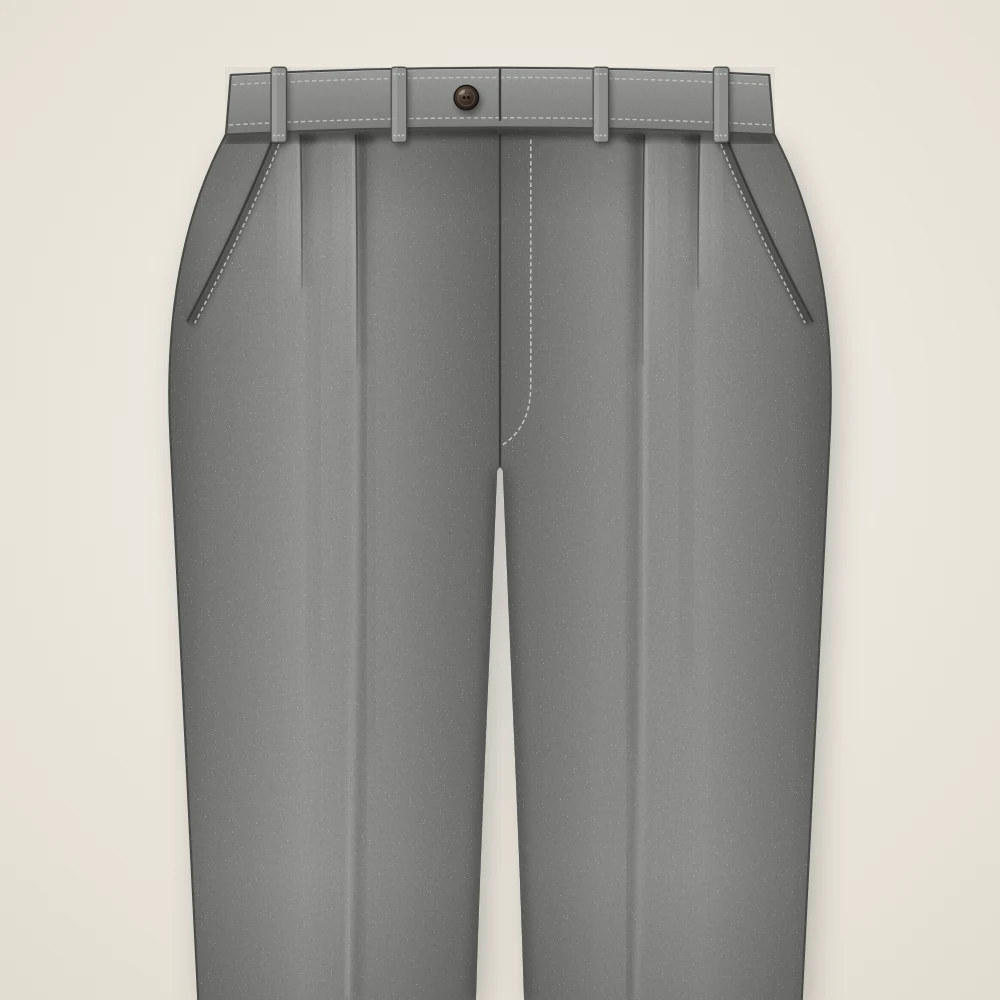
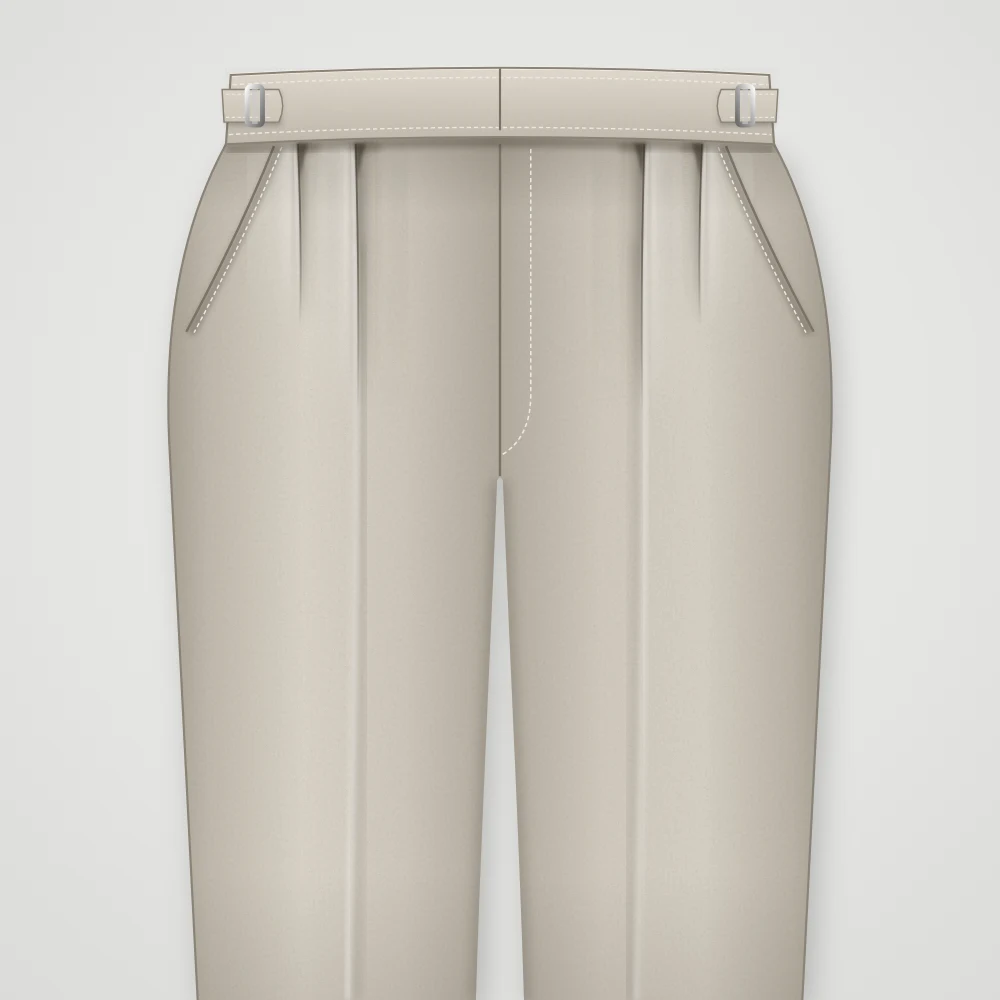
feat(w183): viewer dock — Design Only, Design Details and Pleats in one glass pill; classic light-stone pleat images
The three stacked viewer buttons become one slim pill at the bottom right,
the twin of the Showcase | Turn pill: monoline icons, hairline dividers,
the same warm pressed tint; icons only on phones (js/viewer-dock.js, w183 only).
Pleat renders: light stone flannel, clean waistband with side adjusters (no
loops or button), pleats drawn as rolled folds with a mouth at the waistband.

diff --git a/js/viewer-dock.js b/js/viewer-dock.js
@@ -1,0 +1,111 @@
+/* viewer-dock.js — the viewer's own controls as one glass pill (first on w183).
+
+   Design Only, Design Details and any design-detail button (Pleats, Cuff …,
+   js/detail-studio.js) were three stacked boxes at the viewer's bottom right.
+   This gathers them into one slim pill there, the twin of the Showcase | Turn
+   pill at the top left (js/showcase.js): the same glass, type and warm pressed
+   tint, each control a monoline icon with its name, hairlines between. On a
+   phone the pill keeps only the icons.
+
+   The buttons themselves are moved, not copied, so the page's own handlers,
+   ids and .active classes keep working.
+
+   Use on a page, after the detail modules:
+       <script type="module" src="js/viewer-dock.js"></script> */
+
+const ICONS = {
+    only:    '<path d="M12 7.3a1.8 1.8 0 1 1 1.8-1.8c0 .9-.7 1.3-1.3 1.7l-.5.3v1.6"/><path d="M12 9.1 3.7 15.3c-.6.5-.3 1.5.5 1.5h15.6c.8 0 1.1-1 .5-1.5L12 9.1"/>',
+    details: '<circle cx="6.8" cy="16.4" r="2.3"/><path d="M8.5 14.7 13.6 9.6h6.6"/><path d="M15.6 12.9h4.6"/>',
+    pleat:   '<path d="M4.5 6.3h15"/><path d="M6.8 6.3 6 19.5M17.2 6.3l.8 13.2"/><path d="M10.3 6.3 12 13.8 13.7 6.3"/><path d="M12 13.8v5.7"/>',
+    cuff:    '<path d="M5 8.5h14v8.8H5z"/><path d="M5 11.2h14"/><circle cx="15.6" cy="14.2" r="1.1"/>',
+};
+const icon = (k) => `<svg viewBox="0 0 24 24" aria-hidden="true">${ICONS[k] || ICONS.details}</svg>`;
+
+const css = `
+.kd-dock {
+    position: absolute; right: 1.1rem; bottom: 1.1rem; z-index: 6;
+    display: inline-flex; align-items: center; padding: 3px;
+    border: 1px solid #d6d6d6; border-radius: 999px;
+    background: rgba(255,255,255,0.82);
+    -webkit-backdrop-filter: blur(6px); backdrop-filter: blur(6px);
+    box-shadow: inset 0 1px 0 rgba(255,255,255,.95), 0 1px 2px rgba(0,0,0,.05), 0 8px 22px -10px rgba(0,0,0,.22);
+}
+.kd-dock .kd-rule { width: 1px; height: 1.15rem; background: #dedede; flex: none; }
+html.kd-dock-on .viewer-panel #kd-dock .kd-dock-btn {
+    position: static !important; inset: auto !important; transform: none !important; width: auto !important;
+    margin: 0 !important; display: inline-flex !important; align-items: center; gap: .5rem;
+    padding: .42rem .95rem !important; border: 0 !important; border-radius: 999px !important;
+    background: transparent !important; color: #777 !important; box-shadow: none !important;
+    font-family: "Times New Roman", serif !important; font-size: 1rem !important; letter-spacing: 2px !important;
+    text-transform: uppercase; white-space: nowrap; line-height: 1.2; cursor: pointer;
+    transition: background .25s, color .25s;
+}
+html.kd-dock-on .viewer-panel #kd-dock .kd-dock-btn::after { content: none !important; }
+html.kd-dock-on .viewer-panel #kd-dock .kd-dock-btn:hover { color: #1a1a1a !important; }
+html.kd-dock-on .viewer-panel #kd-dock .kd-dock-btn.active {
+    background: rgba(100,70,0,0.08) !important; color: rgba(100,70,0,0.85) !important;
+}
+.kd-dock .kd-dock-btn:focus-visible { outline: 1px solid rgba(100,70,0,0.6) !important; outline-offset: 1px; }
+.kd-dock .kd-dock-btn svg {
+    width: 1.15em; height: 1.15em; flex: none; fill: none; stroke: currentColor;
+    stroke-width: 1.3; stroke-linecap: round; stroke-linejoin: round;
+    transition: transform .25s ease;
+}
+.kd-dock .kd-dock-btn:hover svg { transform: translateY(-1px); }
+.kd-dock .kd-dock-label em { font-style: italic; text-transform: none; letter-spacing: 1px; }
+
+@media (max-width: 768px) {
+    .kd-dock { right: .8rem; bottom: .8rem; }
+    html.kd-dock-on .viewer-panel #kd-dock .kd-dock-btn { padding: .55rem .62rem !important; }
+    .kd-dock .kd-dock-label { display: none; }
+    .kd-dock .kd-dock-btn svg { width: 1.3rem; height: 1.3rem; }
+}
+@media (prefers-reduced-motion: reduce) { .kd-dock .kd-dock-btn svg { transition: none; } }
+`;
+
+function build() {
+    const panel = document.querySelector('.viewer-panel');
+    const only = document.getElementById('design-only-btn');
+    const details = document.getElementById('design-details-btn');
+    if (!panel || !only || !details) return;
+
+    const style = document.createElement('style');
+    style.textContent = css;
+    document.head.appendChild(style);
+    document.documentElement.classList.add('kd-dock-on');
+
+    const dock = document.createElement('div');
+    dock.className = 'kd-dock';
+    dock.id = 'kd-dock';
+    dock.setAttribute('role', 'toolbar');
+    dock.setAttribute('aria-label', 'Design view');
+
+    const adopt = (btn, key, label) => {
+        btn.classList.add('kd-dock-btn');
+        btn.style.width = '';
+        const text = label ?? btn.innerHTML;
+        btn.innerHTML = `${icon(key)}<span class="kd-dock-label">${text}</span>`;
+        btn.title = btn.querySelector('.kd-dock-label').textContent;
+        btn.setAttribute('aria-label', btn.title);
+        return btn;
+    };
+    const rule = () => Object.assign(document.createElement('span'), { className: 'kd-rule' });
+
+    dock.append(adopt(only, 'only', 'Design Only'), rule(), adopt(details, 'details', 'Design Details'));
+    panel.querySelectorAll('.design-detail-btn').forEach((b) => {
+        const key = b.id.replace(/^design-|-btn$/g, '');
+        dock.append(rule(), adopt(b, key));
+        // the detail module rewrites its label on every choice: keep the title in step
+        new MutationObserver(() => {
+            const t = b.querySelector('.kd-dock-label')?.textContent;
+            if (t) { b.title = t; b.setAttribute('aria-label', t); }
+        }).observe(b, { subtree: true, childList: true, characterData: true });
+    });
+    panel.appendChild(dock);
+
+    // the page sizes Design Only to Design Details once everything has loaded
+    window.addEventListener('load', () => { only.style.width = ''; });
+}
+
+if (document.readyState === 'loading') document.addEventListener('DOMContentLoaded', build);
+else build();

diff --git a/js/detail-studio.js b/js/detail-studio.js
@@ -197,7 +197,9 @@ export function createDetailStudio(o) {
             b.tabIndex = on ? 0 : -1;
         });
         const i = items.find(x => x.id === chosen);
-        btn.innerHTML = `${o.title} · <em>${i.name}</em>`;
+        // inside the viewer dock (js/viewer-dock.js) the label is a span beside an icon
+        const label = btn.querySelector('.kd-dock-label');
+        (label || btn).innerHTML = `${o.title} · <em>${i.name}</em>`;
         window.KD_DESIGN_DETAILS = Object.assign(window.KD_DESIGN_DETAILS || {}, { [o.key]: { id: i.id, name: i.full } });
         caption(immediate);
     }

diff --git a/w183.html b/w183.html
@@ -1382,6 +1382,7 @@
     </script>
 <script type="module" src="js/drape-ui.js"></script>
 <script type="module" src="js/pleat-studio.js?default=flat"></script>
+<script type="module" src="js/viewer-dock.js"></script>
 <script type="module" src="js/search-ui.js?anchor=viewer"></script>
 <!-- The KD monogram under the search glass opens the Colourist. If this module
      fails to load the monogram stays an ordinary link to the home page. -->
